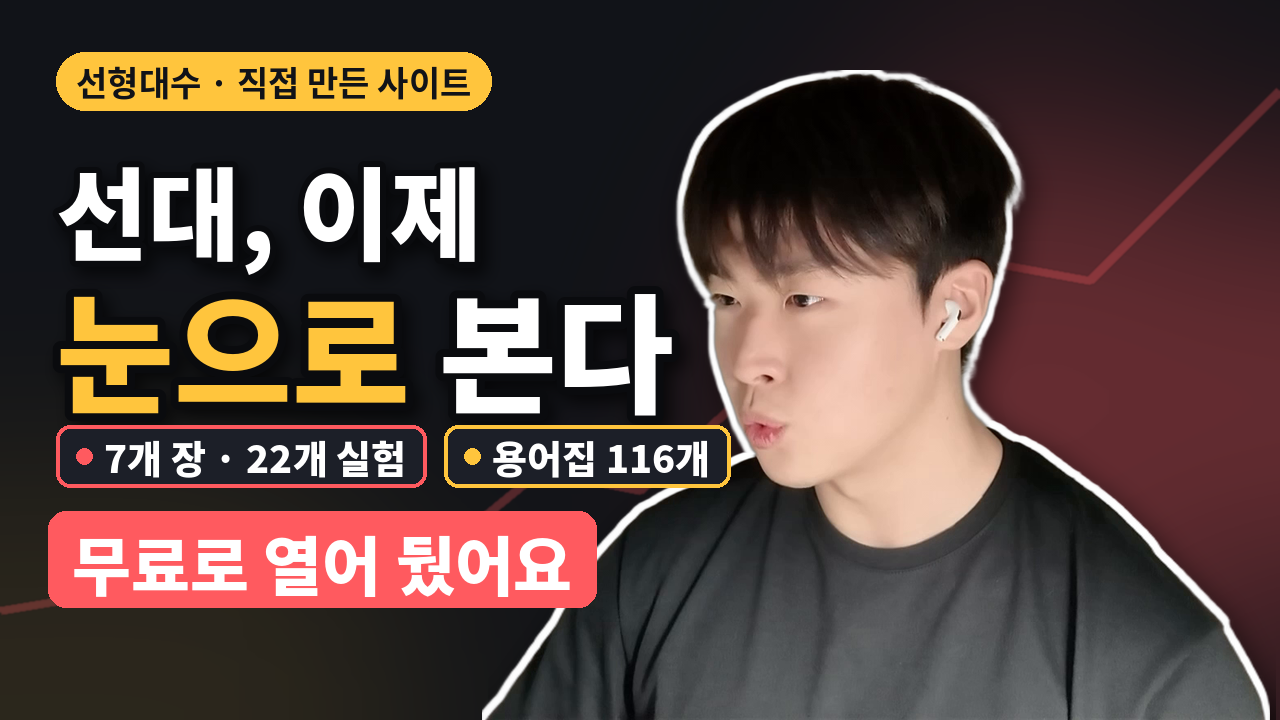
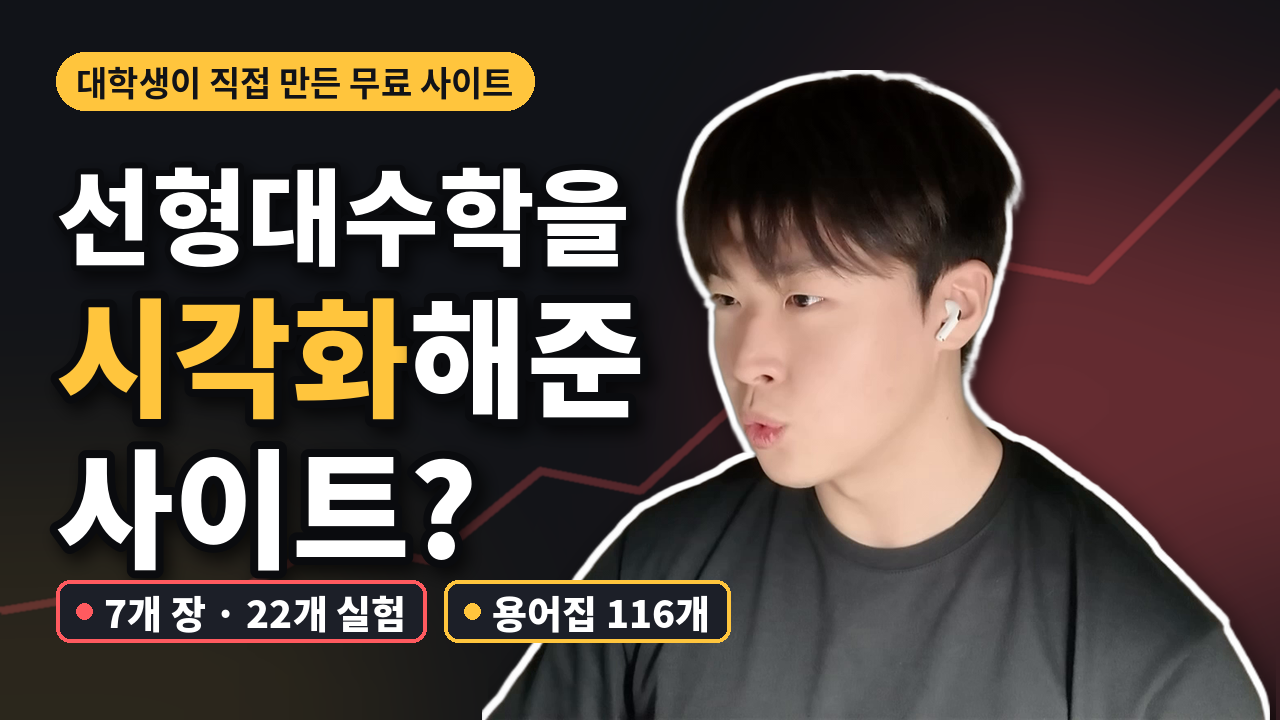
선형대수 썸네일 문구: 선형대수학을 시각화해준 사이트? (질문 띠 생략 옵션)
Claude-Session: https://claude.ai/code/session_01QHbYmFApHJm83EjnbH7XQa

Changed region(s): [[0.0312, 0.2139, 0.5938, 0.9167], [0.0625, 0.0611, 0.4375, 0.1528]]

diff --git a/youtube/tools/thumbnail.py b/youtube/tools/thumbnail.py
@@ -133,7 +133,9 @@ def draw_text_left(img, d):
     for t, color in CHIPS:
         cx += draw_chip(d, cx, y, 0, t, color) + 18
     y += 86
-    # 질문 띠
+    # 질문 띠 (question 을 "" 로 주면 생략)
+    if not QUESTION:
+        return
     qf = font(BLACK, 64)
     qw = text_w(d, QUESTION, qf)
     d.rounded_rectangle((x - 8, y, x + qw + 40, y + 96), 18, fill=UP)
@@ -149,12 +151,13 @@ def draw_text_centered(img, d, left, right):
 
     bw = max(line_w(p, s) for p, s in LINES)
     qf = font(BLACK, 64)
-    bw = max(bw, text_w(d, QUESTION, qf) + 64)
+    if QUESTION:
+        bw = max(bw, text_w(d, QUESTION, qf) + 64)
     bw = min(bw, right - left)
     x0 = left + ((right - left) - bw) / 2
     cxm = x0 + bw / 2
     gap, chip_h, q_h, badge_h = 18, 62, 96, 58
-    heights = [badge_h + 26] + [int(s * 1.18) for _, s in LINES] + [28, chip_h + 28, q_h]
+    heights = [badge_h + 26] + [int(s * 1.18) for _, s in LINES] + [28, chip_h + 28, q_h if QUESTION else 0]
     y = (H - sum(heights)) / 2 + 8
     # 배지
     bf = font(BOLD, 34)
@@ -178,6 +181,8 @@ def draw_text_centered(img, d, left, right):
         draw_chip(d, x0 + i * (cw + gap), y, cw, t, color)
     y += chip_h + 28
     # 질문 띠: 묶음 폭 그대로, 글씨 가운데
+    if not QUESTION:
+        return
     d.rounded_rectangle((x0, y, x0 + bw, y + q_h), 18, fill=UP)
     d.text((cxm, y + q_h / 2), QUESTION, font=qf, fill=WHITE, anchor="mm")
 

diff --git a/youtube/linalg/upload.md b/youtube/linalg/upload.md
@@ -53,6 +53,6 @@
 ## 태그
 선형대수, 선형대수학, 선대, 행렬, 행렬식, 가우스 소거법, 고유값, 고유벡터, 특이값 분해, SVD, 최소제곱법, 여인수 전개, 선형대수 시각화, 대학수학, 공대생, 수학 공부, 선형대수 사이트, 선형대수 실험실, linear algebra
 
-## 썸네일
-- thumbnail/thumbnail_A.png — "행렬을 손으로 움직여 보면" · 3D 시각화 / SVD 이미지 압축
-- thumbnail/thumbnail_B.png — "선대, 이제 눈으로 본다" · 7개 장 · 22개 실험 / 용어집 116개
+## 썸네일 — "선형대수학을 시각화해준 사이트?"
+- thumbnail/thumbnail_A.png — 칩: 3D 시각화 / SVD 이미지 압축
+- thumbnail/thumbnail_B.png — 칩: 7개 장 · 22개 실험 / 용어집 116개
